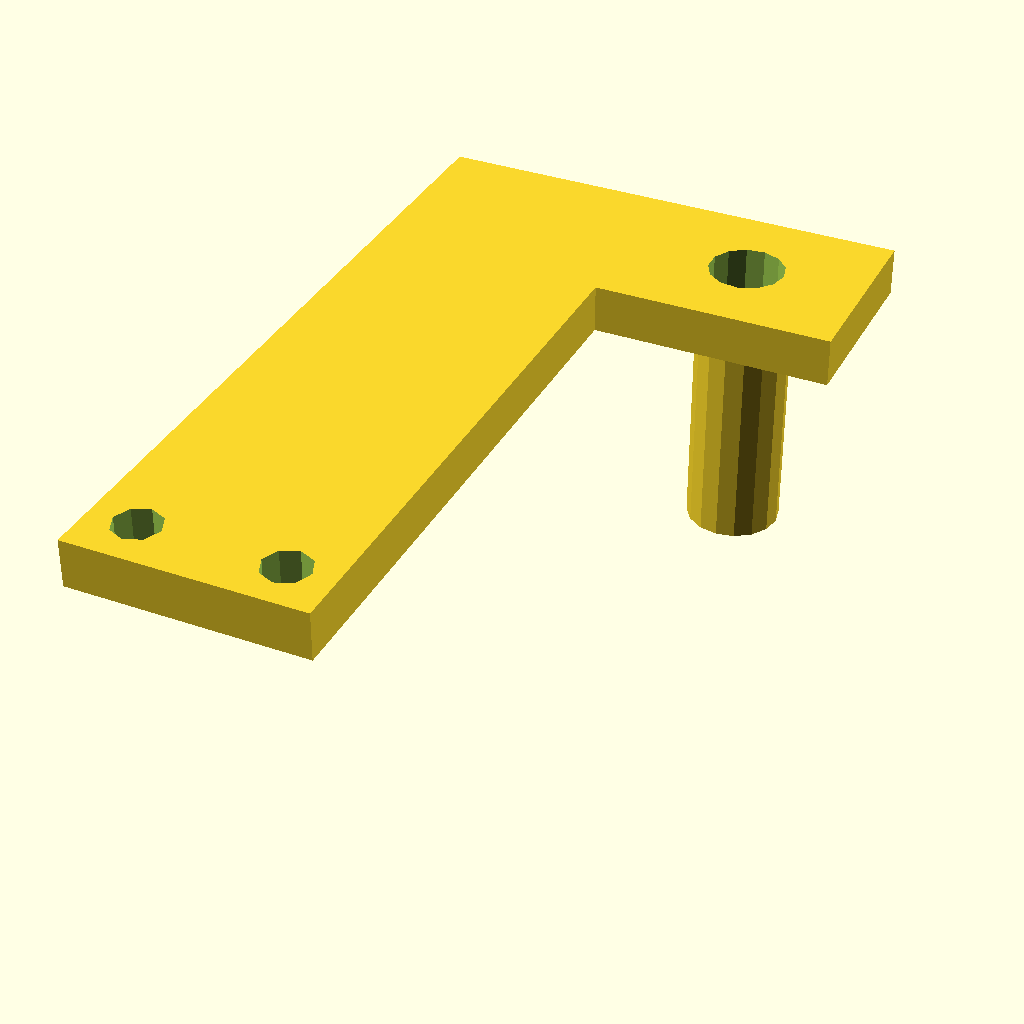
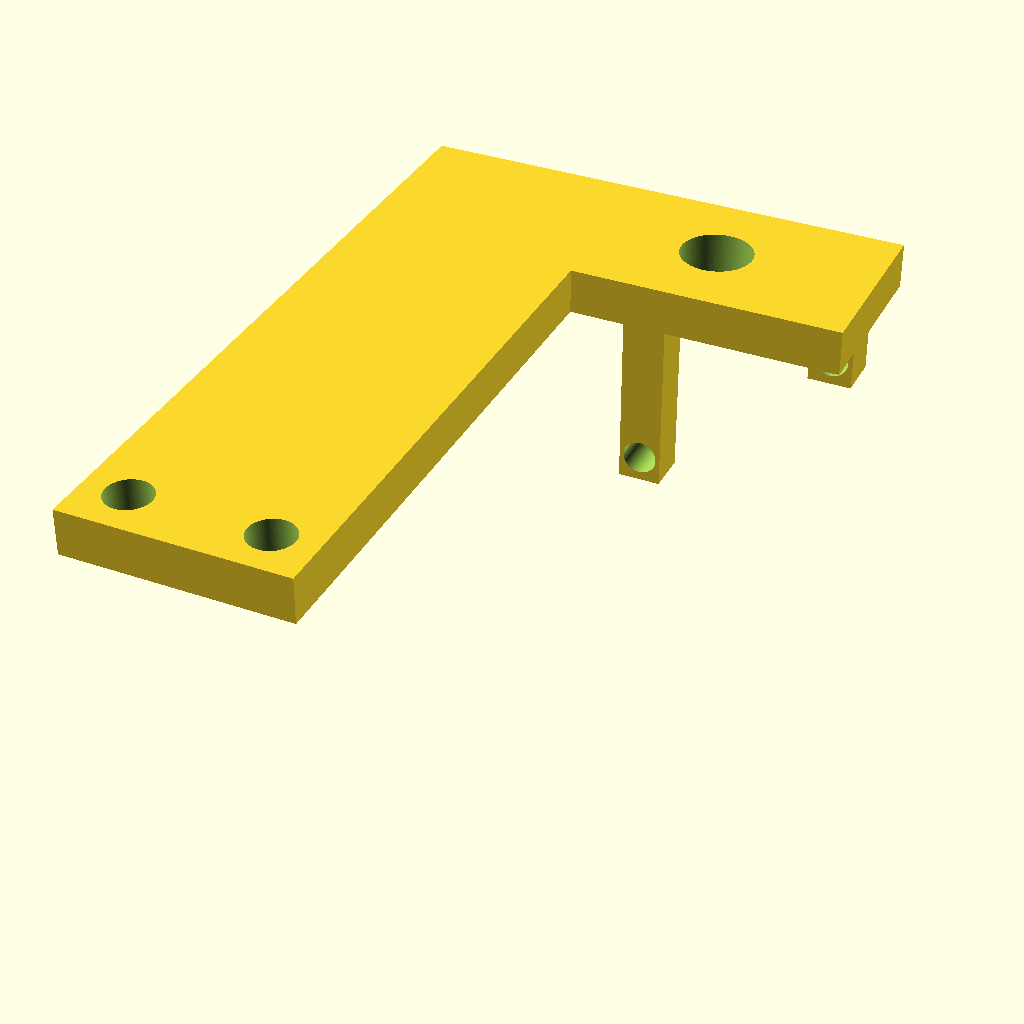
CMMountedFilamentPipe: add support for sensor
the sensor from the flashforge finder can be attached and used like
normal if you're willing to solder (we were)

Changed region(s): [[0.0312, 0.125, 0.9062, 0.6562], [0.4688, 0.1562, 0.625, 0.1875]]

diff --git a/README.md b/README.md
@@ -37,6 +37,7 @@ when they don't fit in your printer.
 ## [CMMountedFilamentPipe](CMMountedFilamentPipe.scad)
 
 A pipe to pass your filament through.
+Now very FlashForge Finder (v1) specific.
 
 <img width=200px height=200px src=CMMountedFilamentPipe.png />
 
